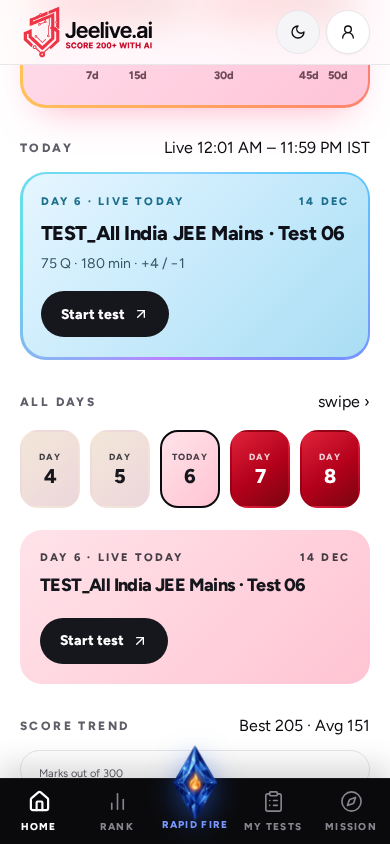
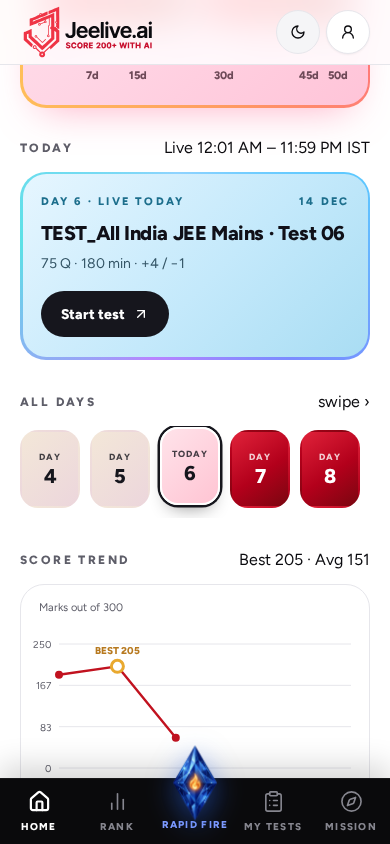
## All India Series screen ab app jaisa hai, aur dono note ready hain (sirf preview mein, live nahi)
Pehle red buttons par dark text tha jo padha nahi ja raha tha, aur design aapke screenshot se alag tha. Maafi chahta hoon. Ab screen ka layout aapke screenshot jaisa hai: upar pink card, phir "Today" ka neela card, din ke buttons, score trend, my results aur 50 din ka map. Bade tab buttons hata diye; woh pages ab sabse neeche chhote links se khulte hain.

- **Pink card par do naye blood-red buttons:** "Today's marks" aur "Analysis". Inke border par paanch rang ghoomte hain aur ek chamak kone se kone tak chalti hai.
- **Attempt kiye din par marks:** marks us din ke button aur map ke khane mein hi dikhte hain.
- **Attempt kiye din par tap:** usi din ka analysis khulta hai. Ek baar back dabane par saare attempt kiye din ki list aati hai, sabse naya upar. Ek aur back par wapas series screen.
- **Beeta hua din jo attempt nahi kiya:** tap karte hi us din ka test khul jaata hai aur khud start ho jaata hai.
- **Score trend chart:** preview mein iske points aur number dikh hi nahi rahe the. Ab theek se dikhte hain.

**Testing:** alag test database par (aapke data ko chhua nahi) computer aur mobile dono par 24 mein se 24 check pass hue. Har aakhri change ke baad screen dobara dekhi. Ek baat: jo test start hona chahiye, uski test copy chhoti thi, isliye server ne usse mana kar diya. Check sirf itna hua ki tap par test khulta hai aur start ki request khud jaati hai. Asli 75 sawaal wale paper par poora start nahi chalaya.
[…]

diff --git a/frontend/src/features/LiveSeries.js b/frontend/src/features/LiveSeries.js
@@ -29,7 +29,7 @@ export default function LiveSeries(){
   },[user?.id,page,refresh,data?.server_now]);
   const meters=useLearningMeters(history?.latest_result_id,'original',!!history?.latest_result_id&&tab==='analytics');
   const personal=['results','analytics','solutions'].includes(tab),today=data?.today_slot;
-  return <div className="container page series-hub sh-hub" data-testid="series-hub"><SeriesHeader eyebrow={`${JEE_SERIES_DAYS} DAYS · FULL SYLLABUS`} title="All India Series" titleTestId="series-hub-title" onBack={()=>nav(user?'/home':'/')} backTestId="series-back-home" right={<button type="button" className="sh-round" data-testid="series-about" aria-label="How the series works" onClick={()=>setOpen(true)}><Info size={21}/></button>}/><div className="sh-brand"><span className="sh-ai" data-testid="series-100ai-ribbon">100% AI</span><span className="sh-brand-line"><strong data-testid="series-hub-score-tagline">Score 200+ with AI</strong> · Created by <b data-testid="series-astra-identity-hub">AI Astra</b></span></div>{user?<JourneyCard streak={hub.streak} today={hub.days.find(d=>d.isToday)} error={hub.error} retry={hub.retry}/>:<GuestJourney/>}{tab!=='today'&&<Tabs value={tab} onValueChange={v=>{setParams(v==='today'?{}:{tab:v});setPage(1);}} className="series-tabs"><TabsList aria-label="All India series sections">{[['today','Live & schedule',Radio],['archive','Practice archive',Archive],['results','My results',BarChart3],['analytics','My analytics',BarChart3],['solutions','Solutions',BookOpen]].map(([v,label,Icon])=><TabsTrigger value={v} key={v} data-testid={'series-tab-'+v}><Icon size={16}/>{label}</TabsTrigger>)}</TabsList></Tabs>}<ErrorBox error={error} retry={reload}/>{!data&&!error&&<Loading/>}
+  return <div className="container page series-hub sh-hub" data-testid="series-hub"><SeriesHeader eyebrow={`${JEE_SERIES_DAYS} DAYS · FULL SYLLABUS`} title="All India Series" titleTestId="series-hub-title" onBack={()=>nav(user?'/home':'/')} backTestId="series-back-home" right={<button type="button" className="sh-round" data-testid="series-about" aria-label="How the series works" onClick={()=>setOpen(true)}><Info size={21}/></button>}/><div className="sh-brand"><span className="sh-ai" data-testid="series-100ai-ribbon">100% AI</span><span className="sh-brand-line"><strong data-testid="series-hub-score-tagline">Score 200+ with AI</strong> · Created by <b data-testid="series-astra-identity-hub">AI Astra</b></span></div>{user?<JourneyCard streak={hub.streak} today={hub.days.find(d=>d.isToday)} error={hub.error} retry={hub.retry}/>:<GuestJourney today={hub.days.find(d=>d.isToday)}/>}{tab!=='today'&&<Tabs value={tab} onValueChange={v=>{setParams(v==='today'?{}:{tab:v});setPage(1);}} className="series-tabs"><TabsList aria-label="All India series sections">{[['today','Live & schedule',Radio],['archive','Practice archive',Archive],['results','My results',BarChart3],['analytics','My analytics',BarChart3],['solutions','Solutions',BookOpen]].map(([v,label,Icon])=><TabsTrigger value={v} key={v} data-testid={'series-tab-'+v}><Icon size={16}/>{label}</TabsTrigger>)}</TabsList></Tabs>}<ErrorBox error={error} retry={reload}/>{!data&&!error&&<Loading/>}
     {data&&tab==='today'&&<><HubToday data={data} days={hub.days} user={user} history={hub.history} early={<EarlyPapers slots={data.slots} history={history}/>}/><nav className="sh-more" aria-label="More from the series" data-testid="series-more-links">{[['archive','Practice archive',Archive],['analytics','My analytics',BarChart3],['solutions','Solutions',BookOpen]].map(([v,label,Icon])=><Link key={v} to={'?tab='+v} data-testid={'series-tab-'+v}><Icon size={16}/>{label}</Link>)}</nav></>}
     {data&&tab==='archive'&&<><p className="series-timing-note" data-testid="series-archive-note">Previous days appear here from midnight IST. Practice retakes do not change your live attempt or live-series analytics.</p>{data.slots.some(s=>s.state==='archive')?<div className="series-slot-grid">{data.slots.filter(s=>s.state==='archive').reverse().map(s=><SlotCard slot={s} key={s.day}/>)}</div>:<div className="series-empty" data-testid="series-archive-empty"><Archive/><h2>Your archive begins after day one.</h2><p>No past series days yet. The first paper enters the archive the day after {JEE_SERIES_START}.</p></div>}</>}
     {personal&&!user&&<div className="series-empty" data-testid="series-signin-prompt"><h2>Your results belong to your profile.</h2><Button asChild><Link data-testid="series-signin" to={'/login?next='+encodeURIComponent(SERIES_PATH+'?tab='+tab)}>Sign in to continue</Link></Button></div>}

diff --git a/frontend/src/components/series/ScoreTrend.js b/frontend/src/components/series/ScoreTrend.js
@@ -3,7 +3,8 @@ import {useNavigate} from 'react-router-dom';
 import {LineChart} from 'lucide-react';
 import {openAnalysis} from './seriesData';
 
-const H=180,TOP=28,BOTTOM=28,LEFT=38,RIGHT=18;
+// SVG parts are built with createElement: the preview editor wraps JSX list children in <span>, which SVG cannot draw.
+const h=React.createElement,H=180,TOP=28,BOTTOM=28,LEFT=38,RIGHT=18;
 const points=days=>days.filter(d=>d.live?.summary&&!d.live.resumable).map(d=>({day:d.day,score:d.live.summary.score,maximum:d.live.summary.maximum,id:d.live.id}));
 
 export function trendSummary(days){
@@ -11,18 +12,18 @@ export function trendSummary(days){
   return p.length?{best:Math.max(...p.map(x=>x.score)),avg:Math.round(p.reduce((a,x)=>a+x.score,0)/p.length)}:null;
 }
 
-function useWidth(){
+function useWidth(on){
   const ref=useRef(null),[w,setW]=useState(0);
   useEffect(()=>{
     const el=ref.current;if(!el)return undefined;
     const ro=new ResizeObserver(([e])=>setW(Math.round(e.contentRect.width)));ro.observe(el);
     return()=>ro.disconnect();
-  },[]);
+  },[on]);
   return [ref,w];
 }
 
 export function ScoreTrend({days}){
-  const nav=useNavigate(),[ref,w]=useWidth(),pts=points(days);
+  const nav=useNavigate(),pts=points(days),[ref,w]=useWidth(pts.length>0);
   if(!pts.length)return <div className="sh-card sh-empty" data-testid="series-trend-empty"><span><LineChart size={26}/></span><h3>Your score trend begins here.</h3><p>Finish a live day. Your marks appear right after you submit — no sample scores.</p></div>;
   const today=days.find(d=>d.isToday)?.day||0,maxDay=Math.max(pts[pts.length-1].day,today,pts[0].day+1);
   const scores=pts.map(p=>p.score);
@@ -30,16 +31,14 @@ export function ScoreTrend({days}){
   if(hi-lo<100)lo=hi-100;
   const x=d=>LEFT+(d-1)/Math.max(1,maxDay-1)*Math.max(1,w-LEFT-RIGHT),y=s=>TOP+(1-(s-lo)/(hi-lo))*(H-TOP-BOTTOM);
   const best=pts.reduce((a,p)=>p.score>a.score?p:a,pts[0]),ticks=[0,1,2,3].map(i=>lo+(hi-lo)*i/3);
+  const grid=ticks.map(t=>h('g',{key:'t'+t},h('line',{x1:LEFT,x2:w-RIGHT,y1:y(t),y2:y(t),className:'sh-trend-grid'}),h('text',{x:LEFT-8,y:y(t)+4,textAnchor:'end',className:'sh-trend-tick'},Math.round(t))));
+  const labels=[...new Set([1,Math.round((1+maxDay)/2),maxDay])].map(d=>h('text',{key:'d'+d,x:x(d),y:H-8,textAnchor:'middle',className:'sh-trend-tick'},'D'+d));
+  const line=h('polyline',{key:'line',points:pts.map(p=>`${x(p.day)},${y(p.score)}`).join(' '),className:'sh-trend-line'});
+  const dots=pts.map(p=>h('g',{key:'p'+p.day,className:'sh-trend-point',role:'button',tabIndex:0,'data-testid':'series-trend-point-'+p.day,'aria-label':`Day ${p.day}: ${p.score} of ${p.maximum}. Open analysis`,onClick:()=>openAnalysis(nav,p.id),onKeyDown:e=>{if(e.key==='Enter')openAnalysis(nav,p.id);}},
+    h('circle',{cx:x(p.day),cy:y(p.score),r:18,fill:'transparent'}),h('circle',{cx:x(p.day),cy:y(p.score),r:p===best?6:4,className:p===best?'is-best':''}),
+    p===best&&h('text',{x:x(p.day),y:y(p.score)-12,textAnchor:'middle',className:'sh-trend-best'},'BEST '+p.score)));
   return <div className="sh-card sh-trend" data-testid="series-trend" ref={ref}>
     <small className="sh-trend-cap">Marks out of {pts[0].maximum}</small>
-    {w>0&&<svg width={w} height={H} role="img" aria-label={`Live marks for ${pts.length} days`}>
-      {ticks.map(t=><g key={t}><line x1={LEFT} x2={w-RIGHT} y1={y(t)} y2={y(t)} className="sh-trend-grid"/><text x={LEFT-8} y={y(t)+4} textAnchor="end" className="sh-trend-tick">{Math.round(t)}</text></g>)}
-      {[...new Set([1,Math.round((1+maxDay)/2),maxDay])].map(d=><text key={d} x={x(d)} y={H-8} textAnchor="middle" className="sh-trend-tick">D{d}</text>)}
-      <polyline points={pts.map(p=>`${x(p.day)},${y(p.score)}`).join(' ')} className="sh-trend-line"/>
-      {pts.map(p=><g key={p.day} className="sh-trend-point" role="button" tabIndex={0} data-testid={'series-trend-point-'+p.day} aria-label={`Day ${p.day}: ${p.score} of ${p.maximum}. Open analysis`} onClick={()=>openAnalysis(nav,p.id)} onKeyDown={e=>{if(e.key==='Enter')openAnalysis(nav,p.id);}}>
-        <circle cx={x(p.day)} cy={y(p.score)} r="18" fill="transparent"/><circle cx={x(p.day)} cy={y(p.score)} r={p===best?6:4} className={p===best?'is-best':''}/>
-        {p===best&&<text x={x(p.day)} y={y(p.score)-12} textAnchor="middle" className="sh-trend-best">BEST {p.score}</text>}
-      </g>)}
-    </svg>}
+    {w>0&&h('svg',{width:w,height:H,role:'img','aria-label':`Live marks for ${pts.length} days`},grid,labels,line,dots)}
   </div>;
 }

diff --git a/frontend/src/components/series/DayStrip.js b/frontend/src/components/series/DayStrip.js
@@ -8,7 +8,7 @@ export function DayStrip({days,selected,onSelect}){
   const nav=useNavigate(),ref=useRef(null),first=useRef(true);
   useEffect(()=>{
     const box=ref.current,el=box?.querySelector(`[data-day="${selected}"]`);
-    if(el)box.scrollTo({left:Math.max(0,el.offsetLeft-box.offsetLeft-120),behavior:first.current?'auto':'smooth'});
+    if(el)box.scrollTo({left:Math.max(0,el.offsetLeft-box.offsetLeft-(box.clientWidth-el.offsetWidth)/2),behavior:first.current?'auto':'smooth'});
     first.current=false;
   },[selected,days.length]);
   return <div className="sh-strip" ref={ref} data-testid="series-day-strip">{days.map(d=><button type="button" key={d.day} data-day={d.day} className={'sh-chip tone-'+d.tone+(d.day===selected?' on':'')} data-testid={'series-chip-'+d.day} aria-label={`Day ${d.day}, ${shortDate(d.date)}, ${d.label}${d.scored?`, ${d.scored.summary.score} marks`:''}`} aria-pressed={d.day===selected} onClick={()=>goDay(nav,d,onSelect)}>
@@ -22,7 +22,7 @@ export function DayMap({days,selected,onSelect}){
   const nav=useNavigate(),legend=LEGEND.filter(([t])=>t!=='missed'||days.some(d=>d.tone==='missed'));
   return <div className="sh-card sh-map" data-testid="series-calendar">
     <div className="sh-map-grid">{days.map(d=><button type="button" key={d.day} className={'sh-cell tone-'+d.tone+(d.isToday||d.day===selected?' on':'')} data-testid={'series-calendar-day-'+d.day} aria-label={`Day ${d.day}, ${shortDate(d.date)}, ${d.label}${d.scored?`, ${d.scored.summary.score} marks`:''}`} title={`Day ${d.day} · ${shortDate(d.date)} · ${d.label}`} onClick={()=>goDay(nav,d,onSelect)}>
-      {d.scored?<Marks d={d} prefix="series-map-marks-"/>:(d.isToday||d.day===selected)?<b>{d.day}</b>:null}
+      {d.scored?<Marks d={d} prefix="series-map-marks-"/>:(d.isToday||d.day===selected||d.tone==='missed')?<b>{d.day}</b>:null}
     </button>)}</div>
     <div className="sh-legend">{legend.map(([t,l])=><span key={t}><i className={'tone-'+t}/>{l}</span>)}</div>
   </div>;

diff --git a/frontend/src/series-app.css b/frontend/src/series-app.css
@@ -22,7 +22,8 @@
 .sh-journey-body,.sh-today-body { position:relative; overflow:hidden; border-radius:23.5px; color:var(--sh-ink); }
 .sh-journey-body { padding:26px; background:linear-gradient(135deg,#FFEAF1 0%,#FFD6E5 55%,#FFC4D8 100%); }
 .sh-journey-body::after,.sh-red-body::after { content:''; position:absolute; inset:-60%; z-index:2; pointer-events:none; background:linear-gradient(120deg,transparent 43%,rgb(255 255 255 / 0) 45%,rgb(255 255 255 / .8) 50%,rgb(255 255 255 / 0) 55%,transparent 57%); transform:translate(-55%,-55%); animation:sh-gloss 5.5s ease-in-out infinite; }
-.sh-journey-body::after { opacity:.75; z-index:0; }
+.sh-journey-body::after,.sh-red-body::after { z-index:0; }
+.sh-journey-body::after { opacity:.75; }
 .sh-journey-top { display:flex; align-items:center; gap:28px; position:relative; z-index:1; }
 .sh-ring { position:relative; width:128px; height:128px; flex:none; display:flex; flex-direction:column; align-items:center; justify-content:center; }
 .sh-ring svg { position:absolute; inset:0; width:100%; height:100%; transform:rotate(-90deg); }
@@ -108,7 +109,7 @@
 .sh-strip::-webkit-scrollbar { display:none; }
 .sh-chip { flex:none; width:60px; height:78px; display:flex; flex-direction:column; align-items:center; justify-content:center; gap:1px; border-radius:18px; border:2px solid transparent; color:var(--sh-ink); scroll-snap-align:start; transition:transform .2s; }
 .sh-chip:hover { transform:translateY(-2px); }
-.sh-chip.on { border-color:var(--ink); }
+.sh-chip.on { border-color:#fff; box-shadow:0 0 0 2.5px #16161D,0 10px 18px -8px rgb(0 0 0 / .45); transform:translateY(-3px); }
 .sh-chip small { font-size:9px; font-weight:800; letter-spacing:.12em; opacity:.8; color:inherit; }
 .sh-chip strong { font-size:20px; font-weight:900; line-height:1.1; }
 .sh-chip em,.sh-cell em { font-style:normal; font-weight:900; }

diff --git a/frontend/src/components/series/HubToday.js b/frontend/src/components/series/HubToday.js
@@ -17,7 +17,7 @@ export function HubToday({data,days,user,history,early}){
   return <div className="sh-sections">
     <section><SectionLabel title="Today" right={<span data-testid="series-timing-note">{today?`Live ${istTime(today.slot.opens_at)} – ${istTime(today.slot.closes_at)} IST`:'Live 12:01 AM – 11:59 PM IST'}</span>}/><TodayCard series={data} day={today}/></section>
     {early}
-    <section ref={strip} className="sh-scroll-target"><SectionLabel title="All days" right={<span>swipe ›</span>}/><DayStrip days={days} selected={selected} onSelect={setPicked}/>{sel&&<DayCard d={sel}/>}</section>
+    <section ref={strip} className="sh-scroll-target"><SectionLabel title="All days" right={<span>swipe ›</span>}/><DayStrip days={days} selected={selected} onSelect={setPicked}/>{sel&&!sel.isToday&&<DayCard d={sel}/>}</section>
     <section><SectionLabel title="Score trend" right={trend&&<span data-testid="series-trend-summary">Best {trend.best} · Avg {trend.avg}</span>}/><ScoreTrend days={days}/></section>
     {user&&<section><SectionLabel title="My results" right={<span className="sh-label-actions">{items.length>3&&<button type="button" data-testid="series-results-toggle" onClick={()=>setAll(v=>!v)}>{all?'show less':'view all'}</button>}<Link to={LIST_PATH} state={{fromHub:true}} data-testid="series-all-analysis-link">Analysis<ArrowUpRight size={14}/></Link></span>}/>{history?<ResultsList items={items} dayOf={dayOf} limit={all?items.length:3}/>:<div className="sh-load sh-skeleton">Loading your results…</div>}</section>}
     <section><SectionLabel title={`${data.total}-day map`}/><DayMap days={days} selected={selected} onSelect={d=>{setPicked(d);strip.current?.scrollIntoView({behavior:'smooth',block:'start'});}}/></section>

diff --git a/frontend/src/components/series/JourneyCard.js b/frontend/src/components/series/JourneyCard.js
@@ -28,7 +28,7 @@ function note(s){
   return 'Complete today’s live test to add one more day.';
 }
 
-export function GuestJourney(){
+export function GuestJourney({today}){
   return <section className="sh-glow sh-glow-pink sh-journey" data-testid="streak-signin-card"><div className="sh-journey-body">
     <div className="sh-journey-top"><Ring done={0} total={JEE_SERIES_DAYS}/>
       <div className="sh-facts">
@@ -36,7 +36,7 @@ export function GuestJourney(){
         <Fact testid="streak-best" icon={Star} tone="gold" value="Best 0" label="longest run"/>
         <Fact testid="streak-skipped" icon={Ban} tone="miss" value="0 skipped" label="days missed"/>
       </div></div>
-    <p className="sh-journey-note">Starts {JEE_SERIES_START_SHORT}. Sign in to save your streak, marks and analysis.</p>
+    <p className="sh-journey-note" data-testid="streak-guest-note">{today?`Day ${today.day} is live today.`:`Starts ${JEE_SERIES_START_SHORT}.`} Sign in to save your streak, marks and analysis.</p>
     <div className="sh-marks-row is-single"><Link className="sh-red is-action" to={'/login?next='+encodeURIComponent(SERIES_PATH)} data-testid="streak-signin-link"><span className="sh-red-body"><strong>Track my journey</strong><ArrowUpRight size={18}/></span></Link></div>
   </div></section>;
 }

diff --git a/backend/tests/ui_series_hub227_t1.py b/backend/tests/ui_series_hub227_t1.py
@@ -1,0 +1,144 @@
+"""TEST-ONLY iteration 227 independent checks (testing agent) for the All India hub on the isolated bridge 8775.
+Header/brand/no tabs, More links -> ?tab views, upcoming chip selection colours, map cell text, gloss frames,
+guest pink card, map-cell tap -> analysis, dark mode look.
+Run: BRIDGE_OUT=/tmp/uibridge227 BRIDGE_PORT=8775 python tests/ui_series_hub227_t1.py
+"""
+import asyncio, json, os, sys
+from pathlib import Path
+os.environ.setdefault('BRIDGE_OUT', '/tmp/uibridge227'); os.environ.setdefault('BRIDGE_PORT', '8775')
+sys.path.insert(0, str(Path(__file__).resolve().parent))
+from playwright.async_api import async_playwright  # noqa: E402
+from ui_cut210 import open_as, BASE, API, say, RESULT  # noqa: E402
+
+INFO = json.load(open('/tmp/uibridge227/bridge.json'))
+SS = '/app/.screenshots/ui227t1'; os.makedirs(SS, exist_ok=True)
+A = INFO['attempts']
+HUB = BASE + '/series/all-india-jee'
+
+
+async def colours(page, sel):
+    return await page.locator(sel).evaluate("e => { const s = getComputedStyle(e); return [s.backgroundImage.slice(0,80), s.backgroundColor, s.color]; }")
+
+
+async def walk(pw, size):
+    br, page, bad, logs = await open_as(pw, 'hero', size)
+    try:
+        await page.goto(HUB); await page.wait_for_selector('[data-testid=streak-journey]', timeout=30000)
+        await page.wait_for_selector('[data-testid=series-chip-marks-1]', timeout=20000)
+        hdr = [await page.locator(f'[data-testid={t}]').count() for t in ('series-back-home', 'series-hub-title', 'series-about', 'series-100ai-ribbon', 'series-astra-identity-hub')]
+        say(f'{size}: header + brand present', hdr == [1] * 5, hdr)
+        eyebrow = await page.locator('.sh-header-text span').first.inner_text()
+        say(f'{size}: eyebrow text', '50 DAYS' in eyebrow.upper() and 'FULL SYLLABUS' in eyebrow.upper(), eyebrow)
+        say(f'{size}: no tab bar on default hub', await page.locator('[role=tablist]').count() == 0, '')
+        cups = [await page.locator(f'[data-testid=streak-cup-{d}]').count() for d in (7, 15, 30, 45, 50)]
+        say(f'{size}: cups 7/15/30/45/50', cups == [1] * 5, cups)
+        # map cell text for upcoming / missed days
+        txt = {d: (await page.locator(f'[data-testid=series-calendar-day-{d}]').inner_text()).strip() for d in (4, 6, 7, 20)}
+        print(f'{size}: map cell text', txt)
+        say(f'{size}: upcoming map cell 7 shows a day number', txt[7] == '7', txt)
+        # gloss frames of the pink card
+        card = page.locator('[data-testid=streak-journey]')
+        await card.scroll_into_view_if_needed()
+        for i in range(6):
+            await card.screenshot(path=f'{SS}/{size}_gloss_{i}.png'); await page.wait_for_timeout(850)
+        # upcoming chip selection
+        await page.locator('[data-testid=series-chip-8]').scroll_into_view_if_needed()
+        await page.click('[data-testid=series-chip-8]'); await page.wait_for_timeout(600)
+        say(f'{size}: upcoming chip 8 stays on hub', page.url.endswith('/series/all-india-jee'), page.url)
+        sel_card = page.locator('[data-testid=series-day-card-8]')
+        if await sel_card.count():
+            print(f'{size}: day card 8 colours', await colours(page, '[data-testid=series-day-card-8]'), await sel_card.get_attribute('class'))
+        print(f'{size}: chip 8 colours', await colours(page, '[data-testid=series-chip-8]'))
+        await page.screenshot(path=f'{SS}/{size}_sel8.png')
+        # strip scrolled to start shows marks on chips 1-3
+        await page.locator('[data-testid=series-day-strip]').evaluate('e => e.scrollTo({left:0})'); await page.wait_for_timeout(400)
+        await page.locator('[data-testid=series-day-strip]').screenshot(path=f'{SS}/{size}_strip_start.png')
+        # map cell day 2 -> analysis, back -> hub? (list in history)
+        await page.click('[data-testid=series-calendar-day-2]')
+        await page.wait_for_selector('[data-testid=series-analysis-detail]', timeout=20000)
+        say(f'{size}: map day 2 opens its analysis', page.url.endswith('/analysis/' + A['2']), page.url)
+        await page.go_back(); await page.wait_for_selector('[data-testid=series-analysis-list]', timeout=15000)
+        await page.go_back(); await page.wait_for_selector('[data-testid=streak-journey]', timeout=15000)
+        say(f'{size}: map tap back/back -> hub', page.url.endswith('/series/all-india-jee'), page.url)
+        # today's marks button
+        await page.click('[data-testid=today-marks-button]'); await page.wait_for_timeout(1500)
+        print(f'{size}: today-marks Start ->', page.url)
+        say(f'{size}: Start opens today paper', INFO['sets']['6'] in page.url, page.url)
+        await page.goto(HUB); await page.wait_for_selector('[data-testid=series-more-links]', timeout=30000)
+        for t in ('archive', 'analytics', 'solutions'):
+            await page.goto(HUB); await page.wait_for_selector('[data-testid=series-more-links]', timeout=30000)
+            await page.click(f'[data-testid=series-more-links] [data-testid=series-tab-{t}]')
+            await page.wait_for_timeout(1500)
+            ok = page.url.endswith('?tab=' + t) and await page.locator('[role=tablist]').count() == 1
+            say(f'{size}: More {t} opens tab view with tabs', ok, page.url)
+            await page.screenshot(path=f'{SS}/{size}_tab_{t}.png')
+        # tab back to today hides tabs
+        await page.click('[data-testid=series-tab-today]'); await page.wait_for_timeout(1200)
+        say(f'{size}: Live & schedule tab -> hub without tabs', await page.locator('[role=tablist]').count() == 0 and await page.locator('[data-testid=series-more-links]').count() == 1, page.url)
+        # bottom of page: More links not hidden behind mobile nav
+        await page.evaluate('window.scrollTo(0, document.body.scrollHeight)'); await page.wait_for_timeout(600)
+        await page.screenshot(path=f'{SS}/{size}_bottom.png')
+        sw = await page.evaluate('document.documentElement.scrollWidth'); vw = await page.evaluate('document.documentElement.clientWidth')
+        say(f'{size}: no side scroll', sw <= vw, (sw, vw))
+    finally:
+        say(f'{size}: no page errors', not [l for l in logs if 'PAGEERROR' in l], logs[:3])
+        say(f'{size}: no 5xx', not [b for b in bad if b[0] >= 500], bad[:5])
+        print(f'{size} 4xx:', bad[:8])
+        await br.close()
+
+
+async def guest(pw, size):
+    br = await pw.chromium.launch()
+    ctx = await br.new_context(viewport={'width': 1920 if size == 'desk' else 390, 'height': 1080 if size == 'desk' else 844})
+    page = await ctx.new_page(); errs = []
+    page.on('pageerror', lambda e: errs.append(str(e)[:200]))
+
+    async def handler(route):
+        req = route.request
+        hd = {k: v for k, v in req.headers.items() if k.lower() not in ('cookie', 'host', 'origin', 'referer')}
+        hd['origin'] = BASE
+        r = await route.fetch(url=req.url.replace(BASE, API), headers=hd); await route.fulfill(response=r)
+    await page.route('**/api/**', handler)
+    try:
+        await page.goto(HUB); await page.wait_for_selector('[data-testid=streak-signin-card]', timeout=30000)
+        href = await page.locator('[data-testid=streak-signin-link]').get_attribute('href')
+        bg = await page.locator('[data-testid=streak-signin-card] .sh-journey-body').evaluate('e => getComputedStyle(e).backgroundImage.slice(0,90)')
+        say(f'guest {size}: pink sign-in card + link', 'login' in href and 'FFEAF1'.lower() in bg.lower() or 'rgb(255, 234, 241)' in bg, (href, bg))
+        await page.wait_for_timeout(1200)
+        await page.screenshot(path=f'{SS}/guest_{size}.png')
+        await page.click('[data-testid=streak-signin-link]'); await page.wait_for_timeout(1200)
+        say(f'guest {size}: link opens login', '/login' in page.url, page.url)
+        say(f'guest {size}: no page errors', not errs, errs[:2])
+    finally:
+        await br.close()
+
+
+async def dark(pw):
+    br, page, bad, logs = await open_as(pw, 'hero', 'mob')
+    try:
+        await page.goto(HUB); await page.wait_for_selector('[data-testid=streak-journey]', timeout=30000)
+        btn = page.locator('[data-testid=theme-toggle]')
+        if await btn.count():
+            await btn.first.click(); await page.wait_for_timeout(800)
+            await page.screenshot(path=f'{SS}/mob_dark_top.png')
+            await page.locator('[data-testid=series-day-strip]').scroll_into_view_if_needed(); await page.wait_for_timeout(500)
+            await page.screenshot(path=f'{SS}/mob_dark_days.png')
+            await page.locator('[data-testid=series-calendar]').scroll_into_view_if_needed(); await page.wait_for_timeout(500)
+            await page.screenshot(path=f'{SS}/mob_dark_map.png')
+            await btn.first.click()
+        else:
+            print('no theme-toggle testid')
+    finally:
+        await br.close()
+
+
+async def main():
+    async with async_playwright() as pw:
+        for size in ('desk', 'mob'):
+            await walk(pw, size)
+            await guest(pw, size)
+        await dark(pw)
+    ok = sum(1 for r in RESULT if (r[1] if isinstance(r, tuple) else r))
+    print('TOTAL', len(RESULT), 'PASS', ok, 'FAIL', len(RESULT) - ok)
+
+asyncio.run(main())

diff --git a/backend/tests/ui_series_hub227.py b/backend/tests/ui_series_hub227.py
@@ -69,7 +69,7 @@ async def main():
     async with async_playwright() as pw:
         for size in ('desk', 'mob'):
             await walk(pw, size)
-    ok = sum(1 for r in RESULT if (r[0] if isinstance(r, tuple) else r))
+    ok = sum(1 for r in RESULT if (r[1] if isinstance(r, tuple) else r))
     print('TOTAL', len(RESULT), 'PASS', ok, 'FAIL', len(RESULT) - ok)
 
 asyncio.run(main())

diff --git a/memory/CHANGELOG.md b/memory/CHANGELOG.md
@@ -312,3 +312,13 @@ Earlier project history is preserved, unchanged, in PRD.md; new detailed entries
 - Tests: storage_move225.py, storage_move_edge225.py, storage_move_fix226.py, ui_legacy_move226.py; storage_dual216 now 37/37. Testing agent iterations 218/219.
 
 - Tests: storage_dual216.py rewritten for the new policy (36/36); new storage_wait224.py (27/27), storage_wait_bridge224.py and ui_storage_wait224.py. Testing agent iterations 216 and 217 found no open functional issues after the fixes.
+
+## 2026-11-23 — All India Series hub in the app look + marks/analysis buttons (preview only, NOT deployed)
+- /series/all-india-jee now follows the app screenshots: header + brand row, pink journey card (ring, streak/best/skipped, cups), TODAY sky card, ALL DAYS strip, SCORE TREND, MY RESULTS, 50-DAY MAP. No tab bar on the hub; the old tabs open from the small "More" links (?tab=archive/analytics/solutions).
+- Pink card: blood-red "Today's marks" + "Analysis" buttons with a moving five-colour border and a diagonal gloss sweep (sweep sits behind the text).
+- Marks are shown inside the strip chips and map cells of attempted days. Tapping an attempted day opens its analysis in-page; Back -> list of all attempted days (newest first) -> Back -> hub. Tapping a past unattempted day opens that paper and starts it by itself.
+- Fixes: red chips with white text, sky card for a picked upcoming day, no duplicate card when today is picked, strip centres the picked day, missed map cells show their number, stronger picked-chip ring, guest pink card says "Day N is live today" once the series has started.
+- Score trend: the chart is drawn with React.createElement because the preview editor wraps JSX list children in <span>, which SVG does not draw (points, grid and labels were invisible in preview).
+- New files: components/series/{seriesData,SeriesHeader,TodayMarks,JourneyCard,DayCards,DayStrip,ScoreTrend,ResultsList,HubToday}.js, features/SeriesAnalysis.js, series-app.css. Tests: tests/series_hub_bridge227.py + tests/ui_series_hub227.py (24/24, desktop + mobile, throw-away DB). Testing agent iteration 220 (36/38; its 2 map-number notes handled: missed days now numbered, upcoming stays blank like the app).
+- Notes written: memory/APP_TEAM_NOTE_asset_revision_etag_retry.md (for the app team) and memory/CEO_DASHBOARD_HANDOFF_WEBSITE.md (brief for the separate CEO dashboard project; nothing built here).
+

diff --git a/memory/ROADMAP.md b/memory/ROADMAP.md
@@ -158,3 +158,8 @@
 - Original30verifiedPYQ2250Qs preserved. Baseline163notedQ2headerfragment onJan24S1; inspectALLitsrefs beforedeclaringcontentmissing; do not alteracademicmappingforperformance.
 - PrivateingressclientIPlimitneedsoperatortrustedproxyconfiguration. Four-digitPINtemporarylockouttrade-off documented. Owner/studentcredentials alreadyrequestedreset completed; never repeat.
 - No500kconcurrency claim. Horizontalfleet, MongoHA, externalcache, recovery/workerfleet qualification needseparateproduction-scaleevidence/approval.
+
+## Added 2026-11-23
+- P1: AITS hub redesign is in preview only. Owner to check it, then publish.
+- P2 (only when the owner asks): the website side of the CEO dashboard (memory/CEO_DASHBOARD_HANDOFF_WEBSITE.md section 7): /api/ceo/v1/* read-only endpoints, sign-up source fields, last_active_at, the small tejas_events log.
+
